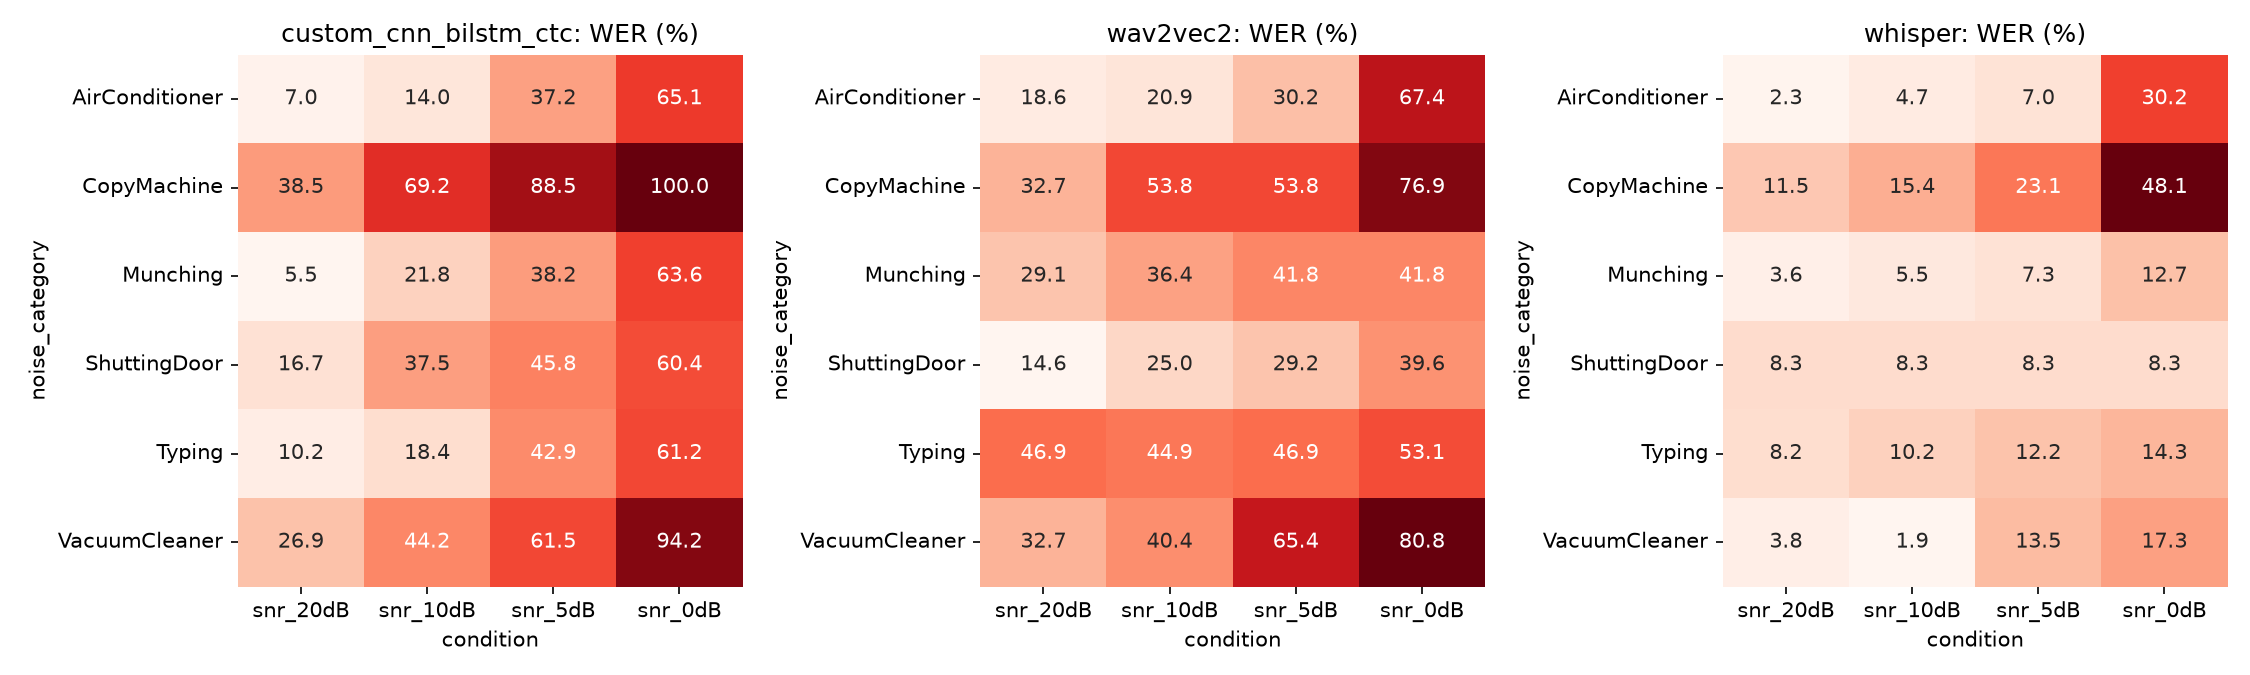
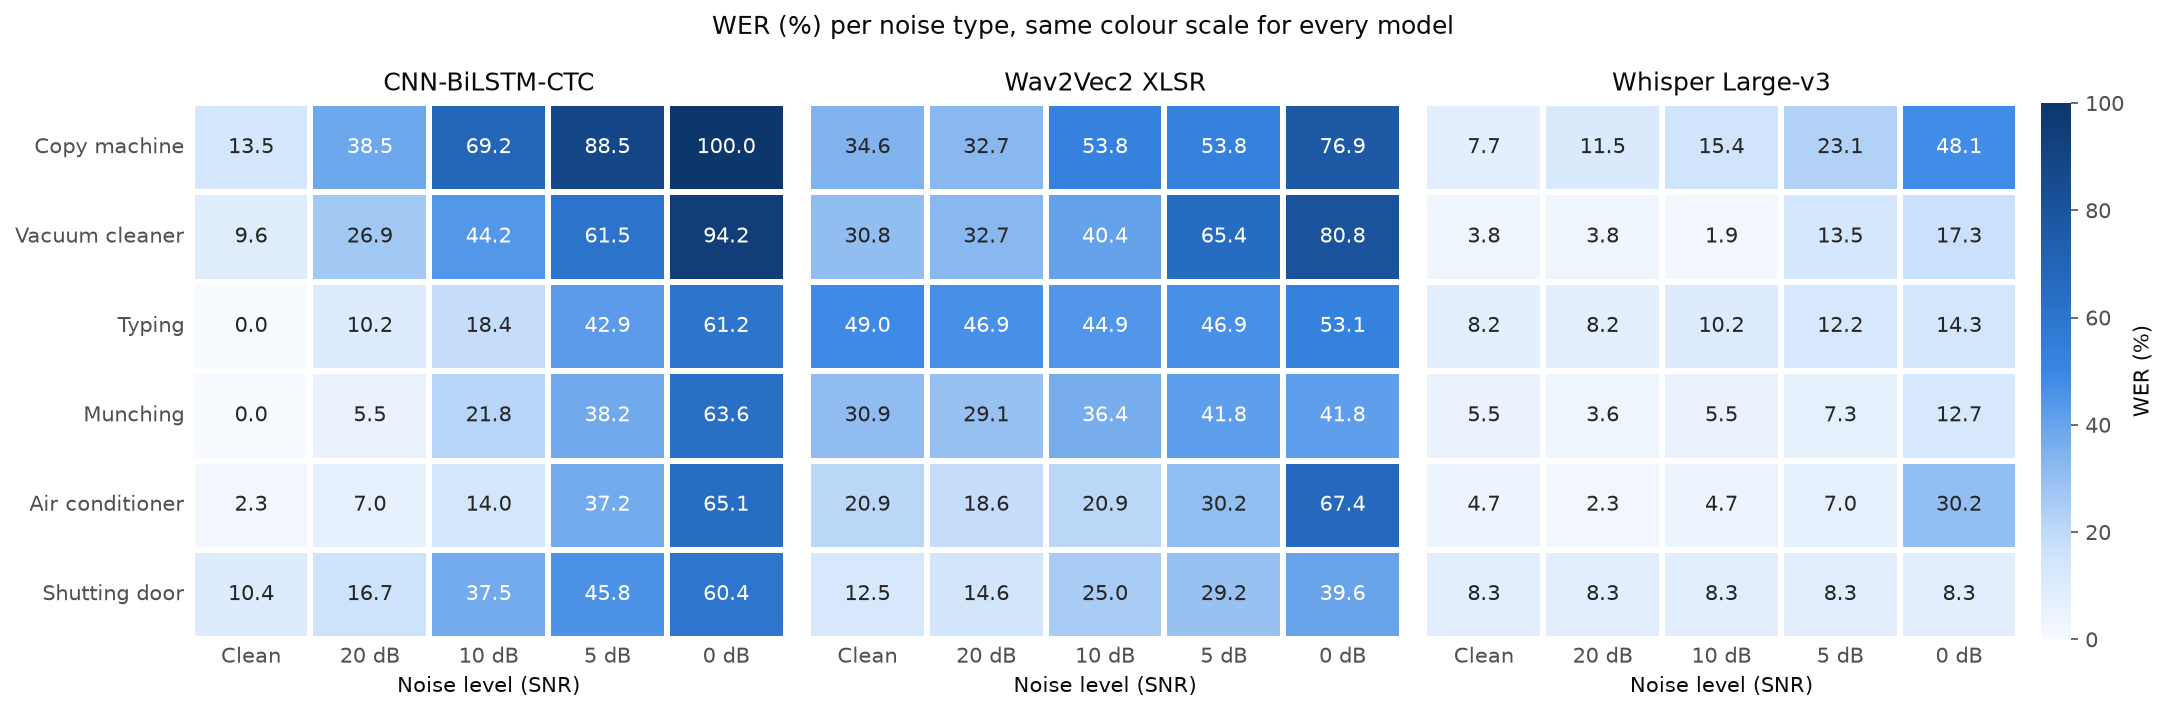
Improve result plots

diff --git a/src/evaluate.py b/src/evaluate.py
@@ -16,10 +16,19 @@ Usage:
 from __future__ import annotations
 
 import argparse
+import re
 
 import jiwer
+import matplotlib
+
+matplotlib.use("Agg")  # draw to files only, no window
+import matplotlib.pyplot as plt
 import numpy as np
 import pandas as pd
+import seaborn as sns
+from matplotlib.colors import LinearSegmentedColormap
+from matplotlib.lines import Line2D
+from matplotlib.ticker import FuncFormatter
 
 from src.model_loader import MODEL_NAMES
 from src.preprocessing import normalize_text
@@ -153,73 +162,167 @@ def runtime_table(rtfx: pd.DataFrame, pred_dir, tag: str) -> pd.DataFrame:
     return rtfx.merge(pd.DataFrame(rows), on="model", how="left")
 
 
+# ---------------------------------------------------------------------------------------------------------
+# Plots. Every model keeps one fixed colour and position in every plot, so plots can be compared directly.
+# ---------------------------------------------------------------------------------------------------------
+MODEL_LABELS = {"custom_cnn_bilstm_ctc": "CNN-BiLSTM-CTC", "wav2vec2": "Wav2Vec2 XLSR",
+                "whisper": "Whisper Large-v3"}
+MODEL_COLORS = {"custom_cnn_bilstm_ctc": "#2a78d6", "wav2vec2": "#eb6834", "whisper": "#1baf7a"}
+CONDITION_LABELS = {"clean": "Clean", "snr_20dB": "20 dB", "snr_10dB": "10 dB", "snr_5dB": "5 dB",
+                    "snr_0dB": "0 dB"}
+TEXT, TEXT_SOFT, GRID = "#0b0b0b", "#52514e", "#e4e3df"
+HEATMAP_COLORS = ["#f7fafe", "#cde2fb", "#86b6ef", "#3987e5", "#256abf", "#184f95", "#0d366b"]  # light = low WER
+PLOT_STYLE = {"axes.spines.top": False, "axes.spines.right": False, "axes.edgecolor": "#8a8984",
+              "axes.labelcolor": TEXT, "axes.titlesize": 12, "axes.titlecolor": TEXT, "xtick.color": TEXT_SOFT,
+              "ytick.color": TEXT_SOFT, "font.size": 10, "legend.frameon": False}
+
+
+def model_order(models) -> list[str]:
+    """CTC, Wav2Vec2, Whisper (then any other model), independent of the order in the data."""
+    known = [m for m in MODEL_LABELS if m in set(models)]
+    return known + sorted(set(models) - set(known))
+
+
+def model_label(model: str) -> str:
+    return MODEL_LABELS.get(model, model)
+
+
+def model_color(model: str) -> str:
+    return MODEL_COLORS.get(model, "#8a8984")
+
+
+def noise_label(category: str) -> str:
+    """'CopyMachine' -> 'Copy machine'."""
+    return re.sub(r"(?<=[a-z])(?=[A-Z])", " ", category).capitalize()
+
+
+def plot_metric_vs_snr(by_cond: pd.DataFrame, order: list[str], metric: str):
+    """One line per model from clean audio to the loudest noise (0 dB); the shaded band is the 95 % CI."""
+    x = np.arange(len(order))
+    fig, ax = plt.subplots(figsize=(8, 4.8))
+    for m in model_order(by_cond["model"].unique()):
+        g = by_cond[by_cond["model"] == m].set_index("condition").loc[order]
+        if f"{metric}_ci_low" in g:
+            ax.fill_between(x, g[f"{metric}_ci_low"], g[f"{metric}_ci_high"], color=model_color(m), alpha=0.2,
+                            linewidth=0)
+        ax.plot(x, g[metric], color=model_color(m), linewidth=2, marker="o", markersize=7,
+                markeredgecolor="white", markeredgewidth=1.5, label=model_label(m))
+        # model name and last value at the end of the line, so the plot can be read without the legend
+        ax.annotate(f"{model_label(m)}  {g[metric].iloc[-1]:.1f}", (x[-1], g[metric].iloc[-1]), xytext=(10, 0),
+                    textcoords="offset points", va="center", color=TEXT)
+    ax.set_xticks(x, [CONDITION_LABELS.get(c, c) for c in order])
+    ax.set_ylim(bottom=0)
+    ax.set_xlabel("Noise level (SNR, lower = louder noise)")
+    ax.set_ylabel(f"{metric.upper()} (%)")
+    ax.set_title(f"{metric.upper()} per noise level (lower is better)")
+    ax.grid(axis="y", color=GRID)
+    ax.legend(loc="upper left")
+    return fig
+
+
+def plot_degradation(by_cond: pd.DataFrame, order: list[str]):
+    """How much worse each model gets compared with clean audio: in percentage points and relative (%)."""
+    noisy = [c for c in order if c != "clean"]
+    models = model_order(by_cond["model"].unique())
+    x, width = np.arange(len(noisy)), 0.8 / len(models)
+    fig, axes = plt.subplots(1, 2, figsize=(12, 4.6))
+    panels = [("abs_wer_degradation", "WER increase vs clean (percentage points)"),
+              ("rel_wer_degradation", "WER increase vs clean (relative, %)")]
+    for ax, (col, title) in zip(axes, panels):
+        for i, m in enumerate(models):
+            g = by_cond[by_cond["model"] == m].set_index("condition").loc[noisy]
+            ax.bar(x + (i - (len(models) - 1) / 2) * width, g[col], width * 0.9, color=model_color(m),
+                   label=model_label(m))
+        ax.set_xticks(x, [CONDITION_LABELS.get(c, c) for c in noisy])
+        ax.set_xlabel("Noise level (SNR, lower = louder noise)")
+        ax.set_title(title)
+        ax.grid(axis="y", color=GRID)
+        ax.set_axisbelow(True)
+    axes[0].legend(loc="upper left")
+    fig.tight_layout()
+    return fig
+
+
+def plot_noise_heatmap(by_cat: pd.DataFrame, order: list[str]):
+    """WER per noise type and noise level, one panel per model, all on the same colour scale (0-100 %)."""
+    models = model_order(by_cat["model"].unique())
+    levels = [c for c in order if c in set(by_cat["condition"])]
+    rows = by_cat.groupby("noise_category")["wer"].mean().sort_values(ascending=False).index  # hardest on top
+    cmap = LinearSegmentedColormap.from_list("wer", HEATMAP_COLORS)
+    fig, axes = plt.subplots(1, len(models) + 1, figsize=(4.4 * len(models) + 1.4, 4.8),
+                             gridspec_kw={"width_ratios": [1] * len(models) + [0.05]})
+    for i, (ax, m) in enumerate(zip(axes, models)):
+        d = by_cat[by_cat["model"] == m]
+        table = d.pivot(index="noise_category", columns="condition", values="wer")[levels]
+        if "wer_clean" in d:  # clean WER of the same utterances that were mixed with this noise type
+            table.insert(0, "clean", d.groupby("noise_category")["wer_clean"].first())
+        table = table.reindex(rows)
+        table.index = [noise_label(c) for c in table.index]
+        table.columns = [CONDITION_LABELS.get(c, c) for c in table.columns]
+        sns.heatmap(table, annot=True, fmt=".1f", cmap=cmap, vmin=0, vmax=100, linewidths=2, linecolor="white",
+                    ax=ax, cbar=i == 0, cbar_ax=axes[-1] if i == 0 else None, cbar_kws={"label": "WER (%)"})
+        ax.set_title(model_label(m))
+        ax.set_xlabel("Noise level (SNR)")
+        ax.set_ylabel("")
+        ax.tick_params(length=0, axis="both")
+        ax.tick_params(axis="y", rotation=0)
+        if i > 0:
+            ax.set_yticklabels([])
+    fig.suptitle("WER (%) per noise type, same colour scale for every model", color=TEXT, fontsize=12)
+    fig.tight_layout()
+    return fig
+
+
+def plot_accuracy_vs_speed(trade_off: pd.DataFrame):
+    """Speed (RTFx) against WER on clean audio (circle) and at 0 dB (square). The line between the two
+    points shows how much accuracy the model loses in the loudest noise."""
+    t = trade_off.set_index("model")
+    fig, ax = plt.subplots(figsize=(8, 4.8))
+    for m in model_order(t.index):
+        r = t.loc[m]
+        points = [(c, marker) for c, marker in (("clean", "o"), ("snr_0dB", "s")) if c in r and pd.notna(r[c])]
+        ys = [r[c] for c, _ in points]
+        ax.plot([r["rtfx"]] * len(ys), ys, color=model_color(m), linewidth=2, alpha=0.4)
+        for (_, marker), y in zip(points, ys):
+            ax.scatter(r["rtfx"], y, marker=marker, s=80, color=model_color(m), edgecolor="white", linewidth=1.5,
+                       zorder=3)
+            ax.annotate(f"{y:.1f}", (r["rtfx"], y), xytext=(9, 0), textcoords="offset points", va="center",
+                        color=TEXT_SOFT, fontsize=9)
+        speed = f"{r['rtfx']:,.1f}" if r["rtfx"] < 10 else f"{r['rtfx']:,.0f}"
+        ax.annotate(f"{model_label(m)}\n{speed}× real time", (r["rtfx"], max(ys)), xytext=(0, 12),
+                    textcoords="offset points", ha="center", color=TEXT)
+    ax.set_xscale("log")
+    ax.set_xlim(t["rtfx"].min() / 2.5, t["rtfx"].max() * 2.5)
+    ax.set_ylim(0, t[[c for c in ("clean", "snr_0dB") if c in t]].max().max() * 1.3)
+    ax.xaxis.set_major_formatter(FuncFormatter(lambda v, _: f"{v:g}×"))
+    ax.set_xlabel("Speed: RTFx (log scale, higher = faster)")
+    ax.set_ylabel("WER (%) (lower is better)")
+    ax.set_title("Accuracy vs speed")
+    ax.grid(color=GRID)
+    ax.set_axisbelow(True)
+    ax.legend(handles=[Line2D([], [], marker="o", linestyle="", color="#8a8984", markersize=8, label="Clean"),
+                       Line2D([], [], marker="s", linestyle="", color="#8a8984", markersize=8,
+                              label="0 dB (loudest noise)")], loc="lower center")
+    return fig
+
+
+def save_figure(fig, path) -> None:
+    fig.savefig(path, dpi=150, bbox_inches="tight")
+    plt.close(fig)
+
+
 def make_plots(by_cond: pd.DataFrame, by_cat: pd.DataFrame, plots_dir,
                trade_off: pd.DataFrame | None = None) -> None:
-    import matplotlib
-
-    matplotlib.use("Agg")
-    import matplotlib.pyplot as plt
-    import seaborn as sns
-
     order = [c for c in CONDITION_ORDER if c in set(by_cond["condition"])]
-    labels = [c.replace("snr_", "").replace("dB", " dB") for c in order]
-    for metric in ("wer", "cer"):
-        fig, ax = plt.subplots(figsize=(7, 4.5))
-        for model, g in by_cond.groupby("model"):
-            g = g.set_index("condition").loc[order]
-            ax.plot(labels, g[metric], marker="o", label=model)
-            if f"{metric}_ci_low" in g:
-                ax.fill_between(labels, g[f"{metric}_ci_low"], g[f"{metric}_ci_high"], alpha=0.15)
-        ax.set_xlabel("Condition (SNR)")
-        ax.set_ylabel(f"{metric.upper()} (%)")
-        ax.set_title(f"{metric.upper()} vs SNR")
-        ax.grid(alpha=0.3)
-        ax.legend()
-        fig.tight_layout()
-        fig.savefig(plots_dir / f"{metric}_vs_snr.png", dpi=150)
-        plt.close(fig)
-
-    noisy = by_cond[by_cond["condition"] != "clean"]
-    if not noisy.empty:
-        fig, axes = plt.subplots(1, 2, figsize=(11, 4.5))
-        for ax, col, title in zip(axes, ["abs_wer_degradation", "rel_wer_degradation"],
-                                  ["Absolute WER degradation (pp)", "Relative WER degradation (%)"]):
-            sns.barplot(data=noisy, x="condition", y=col, hue="model", order=order[1:], ax=ax)
-            ax.set_title(title)
-            ax.set_xlabel("Condition")
-            ax.grid(axis="y", alpha=0.3)
-        fig.tight_layout()
-        fig.savefig(plots_dir / "wer_degradation.png", dpi=150)
-        plt.close(fig)
-
-    if not by_cat.empty:
-        models = sorted(by_cat["model"].unique())
-        fig, axes = plt.subplots(1, len(models), figsize=(5 * len(models), 4.5), squeeze=False)
-        for ax, model in zip(axes[0], models):
-            pivot = by_cat[by_cat["model"] == model].pivot(index="noise_category", columns="condition", values="wer")
-            pivot = pivot[[c for c in order if c in pivot.columns]]
-            sns.heatmap(pivot, annot=True, fmt=".1f", cmap="Reds", ax=ax, cbar=False)
-            ax.set_title(f"{model}: WER (%)")
-        fig.tight_layout()
-        fig.savefig(plots_dir / "wer_heatmap_noise_category.png", dpi=150)
-        plt.close(fig)
-
-    if trade_off is not None and not trade_off.empty:
-        fig, ax = plt.subplots(figsize=(7, 4.5))
-        for cond, marker in (("clean", "o"), ("snr_0dB", "s")):
-            if cond in trade_off:
-                ax.scatter(trade_off["rtfx"], trade_off[cond], marker=marker, label=f"WER {cond}")
-        for _, r in trade_off.iterrows():
-            ax.annotate(r["model"], (r["rtfx"], r.get("clean", np.nan)), textcoords="offset points", xytext=(5, 5))
-        ax.set_xscale("log")
-        ax.set_xlabel("RTFx (log scale, higher = faster)")
-        ax.set_ylabel("WER (%)")
-        ax.set_title("Accuracy vs. inference speed")
-        ax.grid(alpha=0.3)
-        ax.legend()
-        fig.tight_layout()
-        fig.savefig(plots_dir / "accuracy_vs_speed.png", dpi=150)
-        plt.close(fig)
+    with plt.rc_context(PLOT_STYLE):
+        for metric in ("wer", "cer"):
+            save_figure(plot_metric_vs_snr(by_cond, order, metric), plots_dir / f"{metric}_vs_snr.png")
+        if (by_cond["condition"] != "clean").any():
+            save_figure(plot_degradation(by_cond, order), plots_dir / "wer_degradation.png")
+        if not by_cat.empty:
+            save_figure(plot_noise_heatmap(by_cat, order), plots_dir / "wer_heatmap_noise_category.png")
+        if trade_off is not None and not trade_off.empty:
+            save_figure(plot_accuracy_vs_speed(trade_off), plots_dir / "accuracy_vs_speed.png")
 
 
 def accuracy_vs_speed(by_cond: pd.DataFrame, rtfx: pd.DataFrame) -> pd.DataFrame:
